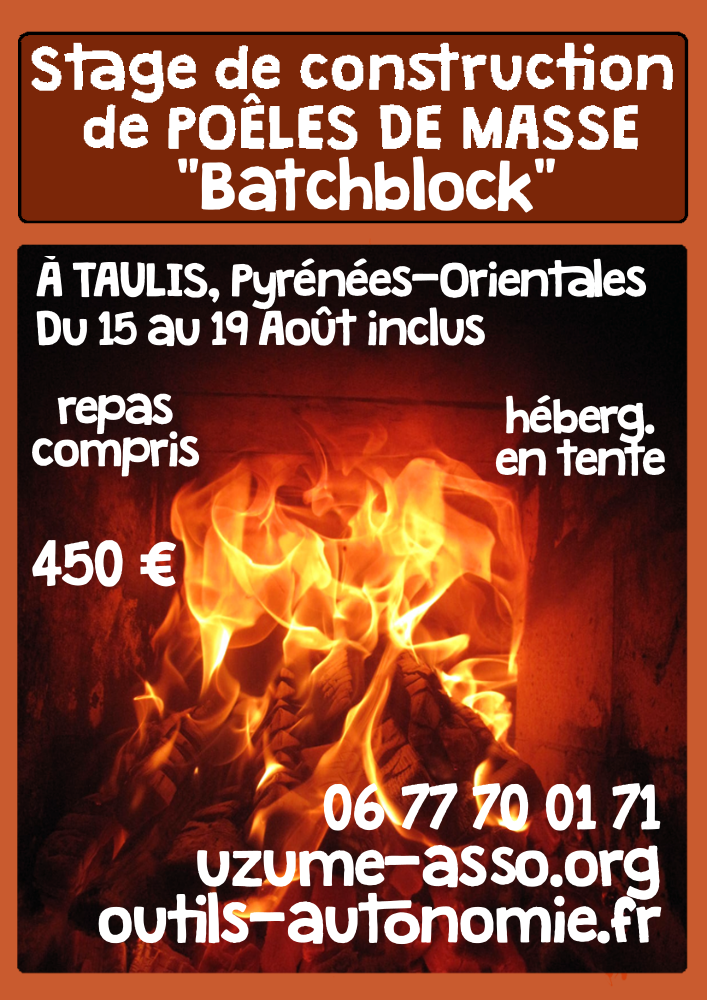
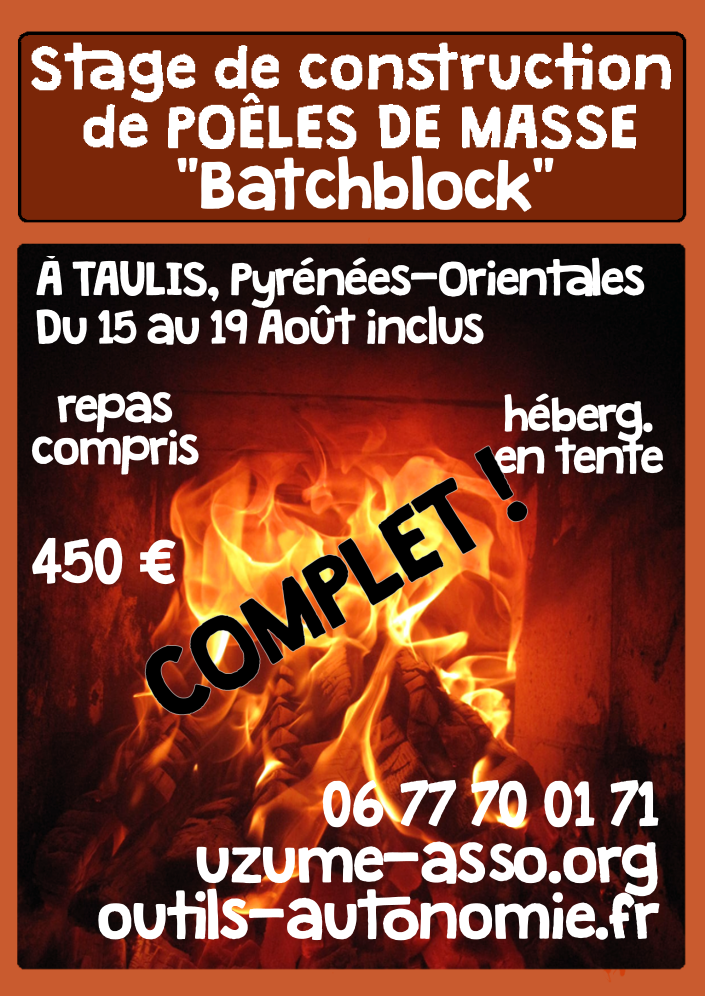
modifs_071918

diff --git a/stages_autoconstruction.html b/stages_autoconstruction.html
@@ -88,6 +88,7 @@
                 <p>Ce sera un stage en petit comité (7 stagiaires, deux formateurs) dans un lieu magnifique et avec des repas sains et délicieux !</p>
                 <p>Nous y avons déjà construit un poêle de masse et ce sera l'occasion d'en construire un second dans une autre bâtisse.</p>
                 <p>Plus d'infos : Christophe, 06 77 70 01 71 ou via mail à <code>contact [__arobase__] uzume.fr</code></p>
+                <p>Info au 19 Juillet 2018 : <b>Le stage est COMPLET !</b> Les inscriptions se font maintenant sur <b>liste d'attente</b>.</p>
 
 
               </div>

diff --git a/index.html b/index.html
@@ -82,7 +82,7 @@
             </div>
             <div class="col-sm-5">
               <a href="./stages_autoconstruction.html"><img class="img-responsive" src="./assets/img/stages_autoconstruction/affiche_stage_TAULIS.png"></a>
-              <p class="subtitle">Stage exceptionnel chez un particulier !</br>Les inscriptions sont ouvertes !</p>
+              <p class="subtitle">Stage complet !</br>Les inscriptions se font désormais sur <b>liste d'attente</b> ! </p>
             </div>
           </div>
 
